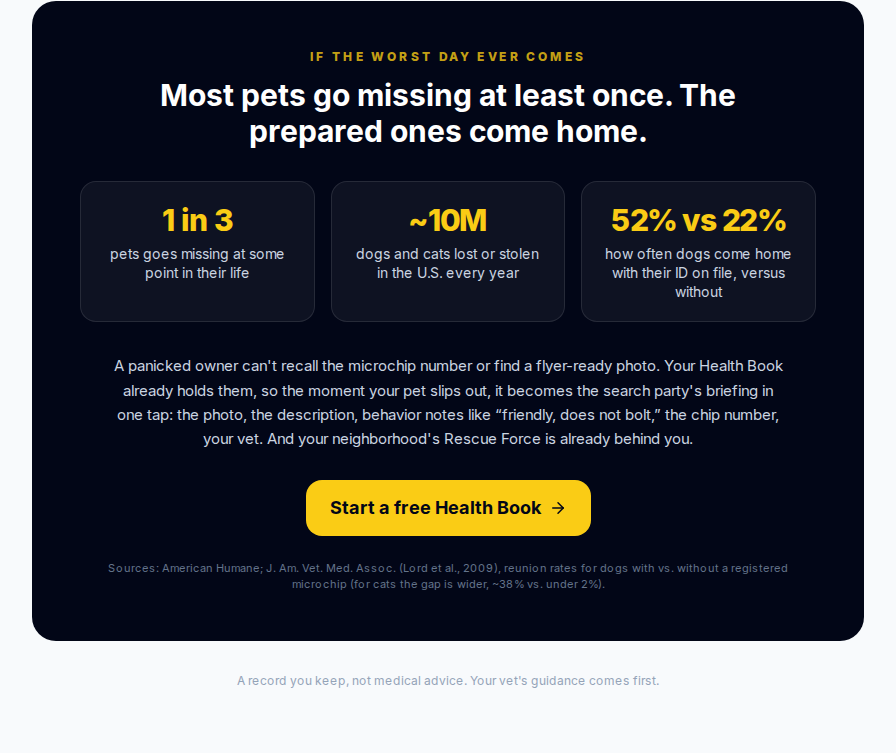
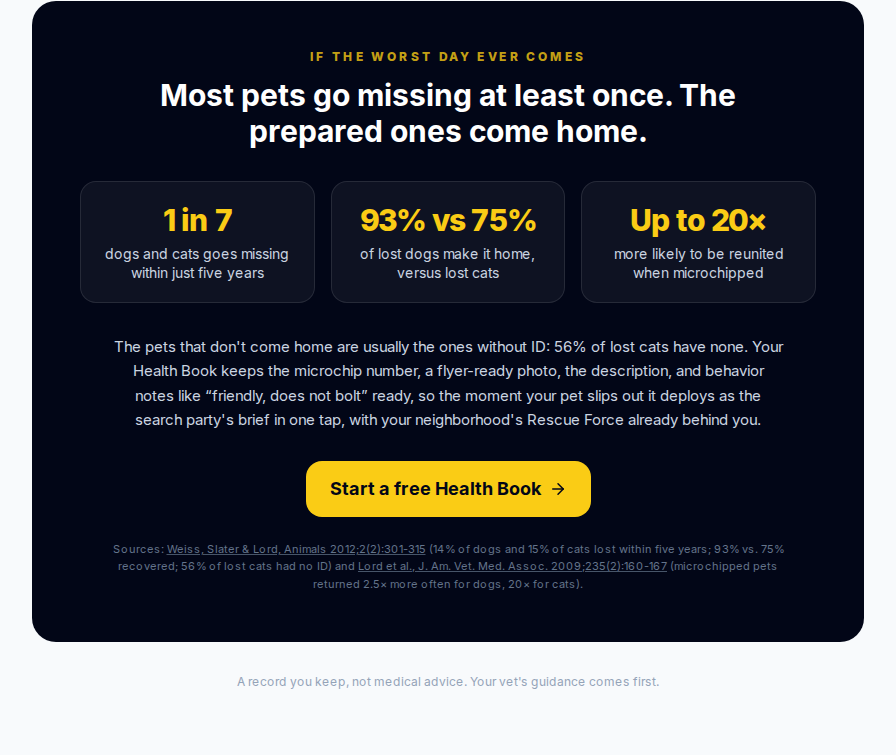
Care landing: bulletproof the loss stats with verified primary sources
Replaced the widely-repeated but unsourceable 'one in three / ten
million a year' figures with peer-reviewed numbers verified against
the papers, with DOI-linked citations on the page:
- Weiss, Slater & Lord, Animals 2012;2(2):301-315 (doi 10.3390/ani2020301):
  14% of dogs and 15% of cats lost within five years; 93% vs 75%
  recovered; 56% of lost cats had no ID.
- Lord, Ingwersen, Gray & Wintz, JAVMA 2009;235(2):160-167
  (doi 10.2460/javma.235.2.160): microchipped pets returned to owner
  2.5x more often for dogs, 20x for cats.
Tiles now read 1 in 7 lost in five years, 93% vs 75% recovered, up to
20x with a microchip; the tie-in leads with the real driver (56% of
lost cats have no ID) and how the Health Book keeps that ID ready.

https://claude.ai/code/session_01LRTBVwbUKeVSrEkkitVL9y

diff --git a/frontend/app/care/page.js b/frontend/app/care/page.js
@@ -48,13 +48,20 @@ const STEPS = [
   ['Use it forever', 'One tap a day. Share it with family. Free, always.'],
 ];
 
-// Real, attributed figures. American Humane's lifetime/annual loss numbers
-// and the JAVMA microchip reunion study (Lord et al., 2009) are widely
-// cited; sources are shown on the page so the claim stays honest.
+// Every figure below is from peer-reviewed primary research, verified
+// against the papers and cited on the page (DOIs linked). No folklore
+// stats: the common "1 in 3 / 10M a year" numbers lack a primary source
+// and were dropped for these.
+//   - Weiss, Slater & Lord, Animals 2012;2(2):301-315 (DOI 10.3390/ani2020301):
+//     14% of dogs / 15% of cats lost within 5 years; 93% vs 75% recovered;
+//     56% of lost cats had no ID.
+//   - Lord, Ingwersen, Gray & Wintz, JAVMA 2009;235(2):160-167
+//     (DOI 10.2460/javma.235.2.160): microchipped pets returned to owner
+//     2.5x more often (dogs) and 20x more often (cats) than all strays.
 const LOSS_STATS = [
-  { big: '1 in 3', label: 'pets goes missing at some point in their life' },
-  { big: '~10M', label: 'dogs and cats lost or stolen in the U.S. every year' },
-  { big: '52% vs 22%', label: 'how often dogs come home with their ID on file, versus without' },
+  { big: '1 in 7', label: 'dogs and cats goes missing within just five years' },
+  { big: '93% vs 75%', label: 'of lost dogs make it home, versus lost cats' },
+  { big: 'Up to 20×', label: 'more likely to be reunited when microchipped' },
 ];
 
 export default function CareLandingPage() {
@@ -159,11 +166,12 @@ export default function CareLandingPage() {
           </div>
 
           <p className="text-midnight-300 text-[15px] mt-8 max-w-2xl mx-auto text-center leading-relaxed">
-            A panicked owner can&apos;t recall the microchip number or find a flyer-ready
-            photo. Your Health Book already holds them, so the moment your pet slips
-            out, it becomes the search party&apos;s briefing in one tap: the photo, the
-            description, behavior notes like &ldquo;friendly, does not bolt,&rdquo; the chip
-            number, your vet. And your neighborhood&apos;s Rescue Force is already behind you.
+            The pets that don&apos;t come home are usually the ones without ID: 56% of
+            lost cats have none. Your Health Book keeps the microchip number, a
+            flyer-ready photo, the description, and behavior notes like
+            &ldquo;friendly, does not bolt&rdquo; ready, so the moment your pet slips out
+            it deploys as the search party&apos;s brief in one tap, with your
+            neighborhood&apos;s Rescue Force already behind you.
           </p>
 
           <div className="flex justify-center mt-7">
@@ -176,8 +184,16 @@ export default function CareLandingPage() {
             </Link>
           </div>
 
-          <p className="text-center text-[11px] text-midnight-500 mt-6">
-            Sources: American Humane; J. Am. Vet. Med. Assoc. (Lord et al., 2009), reunion rates for dogs with vs. without a registered microchip (for cats the gap is wider, ~38% vs. under 2%).
+          <p className="text-center text-[11px] text-midnight-500 mt-6 max-w-2xl mx-auto leading-relaxed">
+            Sources:{' '}
+            <a href="https://doi.org/10.3390/ani2020301" target="_blank" rel="noopener noreferrer" className="underline decoration-midnight-600 hover:text-midnight-300">
+              Weiss, Slater &amp; Lord, Animals 2012;2(2):301-315
+            </a>{' '}
+            (14% of dogs and 15% of cats lost within five years; 93% vs. 75% recovered; 56% of lost cats had no ID) and{' '}
+            <a href="https://doi.org/10.2460/javma.235.2.160" target="_blank" rel="noopener noreferrer" className="underline decoration-midnight-600 hover:text-midnight-300">
+              Lord et al., J. Am. Vet. Med. Assoc. 2009;235(2):160-167
+            </a>{' '}
+            (microchipped pets returned 2.5&times; more often for dogs, 20&times; for cats).
           </p>
         </div>
         <p className="text-center text-xs text-midnight-400 mt-8">
